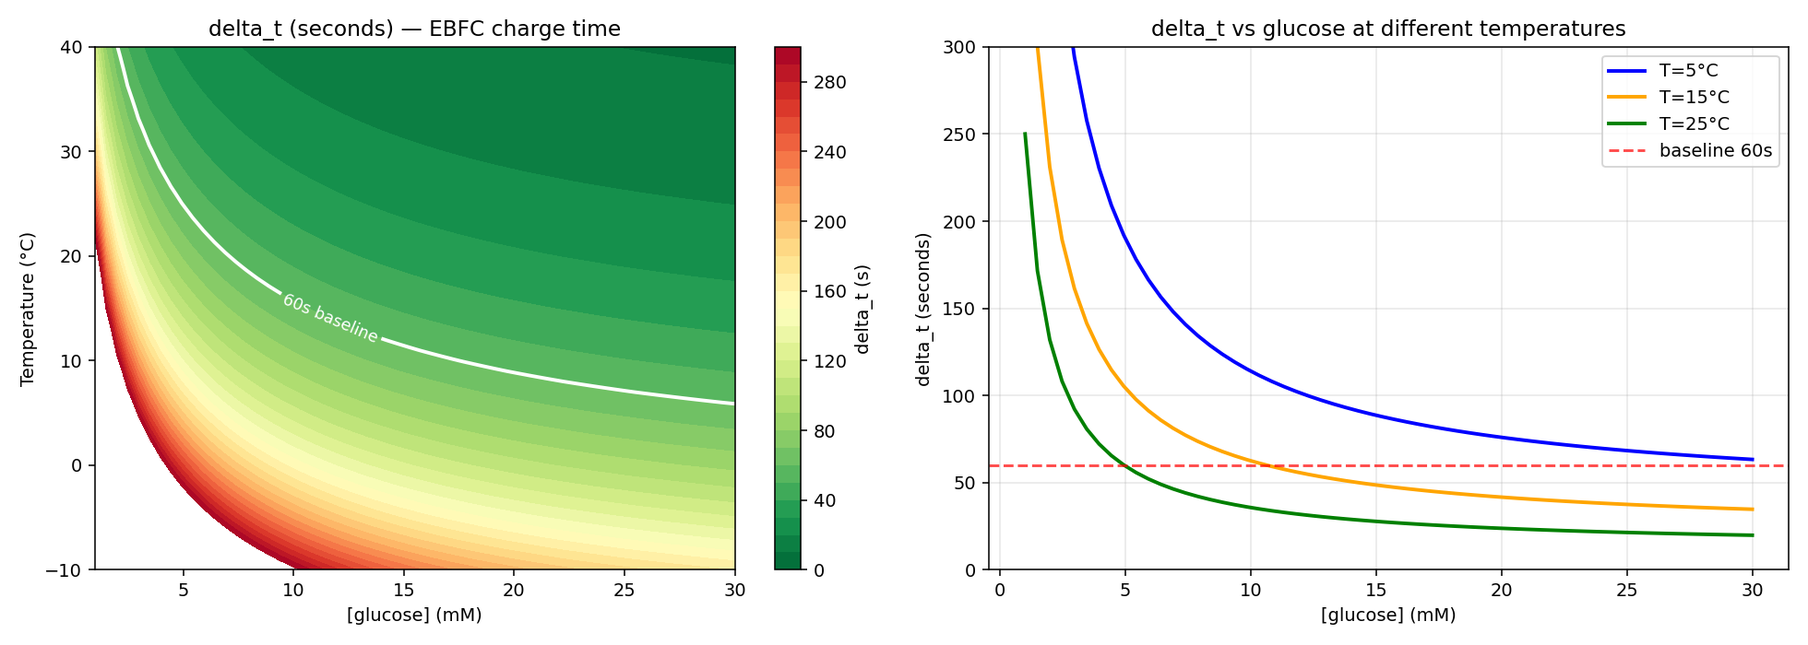
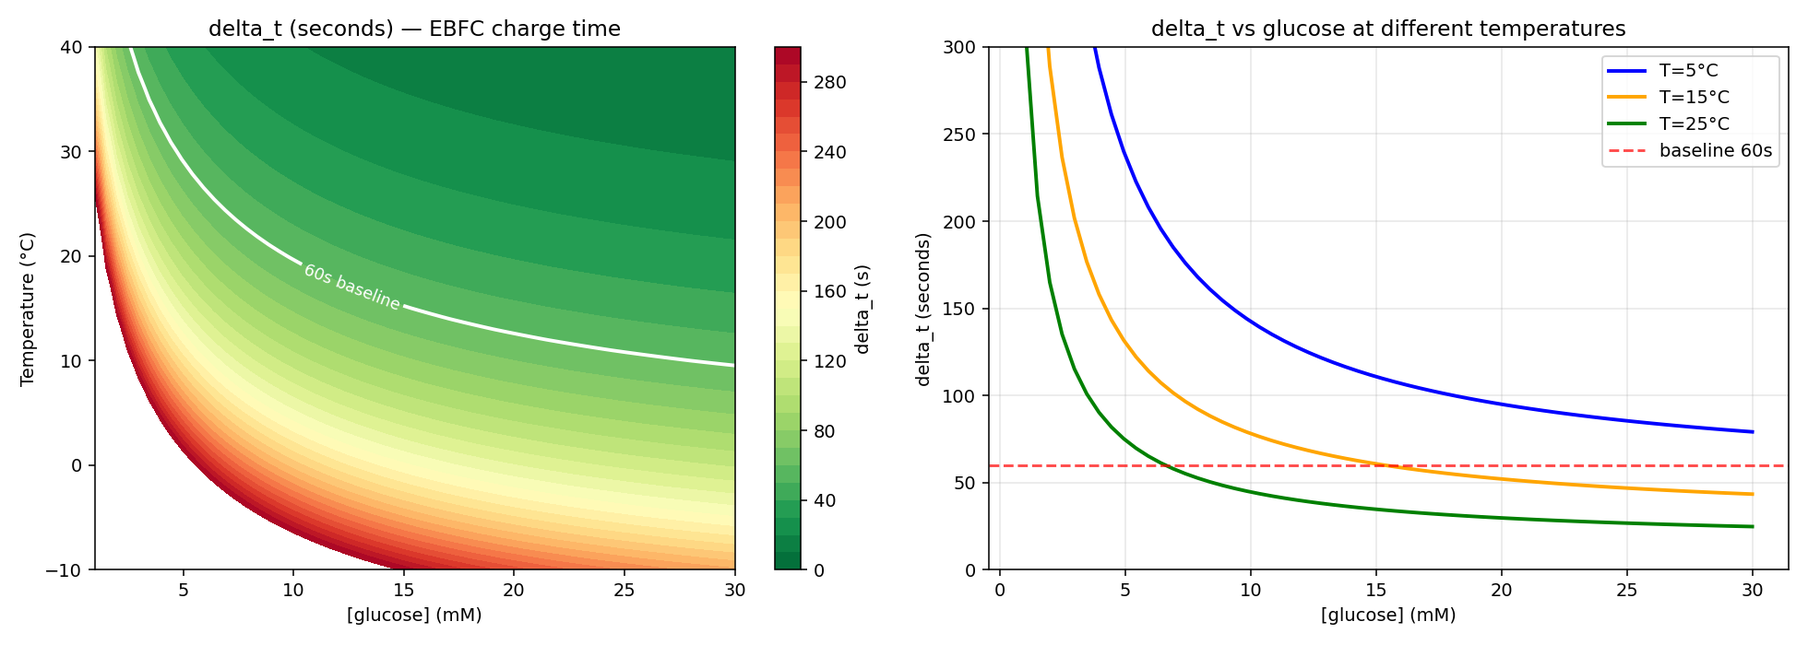
in-silico+docs(HW.47): η_boost BQ25570 0.85→0.68 — One-Home + перерахунок delta_t
`tools/in_silico/lib/constants.py ETA_BQ` тримав неавторизовану плоску 0.85,
поки `docs/02_03 §9.1` мала своя таблиця для тієї самої 15µW-точки давала 0.68.

Прочитано SLUSBH2G (TI BQ25570 datasheet) напряму: аналітичної формули
ККД(P_IN) немає, лише графіки Fig.4-7 «Charger Efficiency vs Input Current».
При I_IN≈15-46µA крива стоїть на крутому підйомі (20-30%@10µA → плато
85-90% лише від ~1мА) — 0.85 систематично оптимістичний тут на будь-якій
VSTOR-кривій, 0.68 у правдоподібному діапазоні (±10-15 в.п., не точне
значення). constants.py тепер дзеркалить канон-таблицю з коментарем.

Перерахунок пропущено крізь весь ланцюг: 30_kinetics_delta_t.py + 30b →
delta_t_lookup.json/monte_carlo.json регенеровано; SUMMARY.md, 01_03 §3.4,
PIPELINE_STATUS.md синхронізовано (healthy 35.7→44.7с, cold winter
190.0→237.5с, ×1.25 — E.63 якісний висновок про масштаб delta_t незмінний).

Побічна знахідка: PIN(CS)=15µW у датшиті — це мінімальний cold-start поріг
самої мікросхеми (TYP, Electrical Characteristics), не «typical Gen 2.0
EBFC» — §9.2 не мала для цього числа незалежної формули. Схоже, §9.1-таблиці
анкер позичений в IC-специфікації, а не виміряний для дерева; той самий
клас, що HW.46 (VIN(CS) 330→600мВ). Присуд лишається HW.46, тут лише
зафіксовано канон-прозою.

00_07: HW.47 закрито → §🗄 Архів; ripple-нотатка, що ARCH.8/E.63 цитують
старі 36-190с/34-178× (нові 45-238с/27-143×) залишена нередагованою —
поза мандатом цього пункту.
[…]

diff --git a/tools/in_silico/lib/constants.py b/tools/in_silico/lib/constants.py
@@ -62,7 +62,15 @@ KM_GLUCOSE = 20.0            # mM — estimated for GcGDH
 EA_ENZYME = 40_000.0         # J/mol — Arrhenius activation energy (typical FAD enzyme)
 V_OP = 0.5                   # V — EBFC operating voltage under load
 A_ELECTRODE = 2.0            # cm² — effective electroactive area
-ETA_BQ = 0.85                # BQ25570 boost efficiency (TI SLUSBH2G)
+ETA_BQ = 0.68                 # BQ25570 boost efficiency at P_EBFC≈15 µW — mirror of
+# docs/02_03 §9.1 table (source of truth; edit there, not here). [HW.47, 2026-09-09]
+# 0.85 was an unvalidated orphan value with no table/citation; SLUSBH2G Figures 6-7
+# (Charger Efficiency vs Input Current, VIN=0.5V/0.2V) put I_IN≈15-46µA solidly on the
+# steep low-current rise of the curve — eyeball range ~45-80% across the plotted VSTOR
+# curves, i.e. clearly below 0.85 and roughly consistent with 0.68. Precision residual:
+# the 15µW/325mV "typical" anchor itself may be mis-copied from BQ25570's OWN cold-start
+# threshold spec (P_IN(CS) TYP=15µW, old VIN(CS)=330mV) rather than derived from real
+# EBFC output — see HW.47/HW.46 in the tracker before treating 0.68 as final-precision.
 E_CYCLE = 5e-3               # J — energy per MCU wake cycle
 BASELINE_DELTA_T_S = 60      # s — firmware baseline (bio_contract.rb)
 

diff --git a/docs/00_07_Action_Plan_Tracker.md b/docs/00_07_Action_Plan_Tracker.md
@@ -645,13 +645,6 @@
 - [ ] ⚖ **Проти якого `VIN(CS)` приймати Stage-2 монету — typ 600 мВ чи max 700 мВ.** 🔑 Машинну половину відколото й закрито 2026-09-09: вимір показав, що діра була ГІРША за «хибний поріг» — у Stage-2 gates ([`01_03 §3.5`](01_03_EBFC_Enzymatic_Bio_Fuel_Cell)) критерію на `V_OC` не існувало ВЗАГАЛІ, тобто keystone міряв усе, крім величини, що вирішує запуск вузла. Обидва гейти (`V_OC` і `R_int`) вписані, число позначене дзеркалом, формула стелі реферить [`02_03 §1.5`](02_03_BQ25570_MPPT_Nano_Power). Лишається сам присуд: typ дешевше, max гарантує — і ціна різниці не абстрактна, бо між ними лежить уся нижня половина очікуваного OCV
 - ⛔ **Гейт на відкинуту вокабуляру ВИМІРЯНО Й ВІДМОВЛЕНО 2026-09-09 — не відбудовувати.** Вичерпний перепис колокації «cold-start ∥ VIN(CS)» × «330» по `docs/` дав **12 кандидатів, із них справжній ОДИН** (точність 8 %): решта одинадцять — це власна виправна проза, що ЦИТУЄ старе число як спростоване, плюс тіло цього пункту й опис самого гейта. Тобто гейт червонів би переважно на документації про себе ж (guard-craft #10a), а поріг 8 % нижчий за той, на якому відмовили двом попереднім. 🔑 **Позитивна половина того ж виміру:** саме він знайшов останній ЖИВИЙ інстанс — [`03_05 §3.5`](03_05_Hardware_Symmetric_Crypto_and_Security), якого свіп по шести домах не дістав. **Ціна відмови вголос:** повернення «330 мВ» ловить лише читач, і єдиний носій — 🔴-блоки в [`02_03 §1.1`](02_03_BQ25570_MPPT_Nano_Power)/`§1.3`, які кажуть «не відновлювати» прямим текстом.
 
-#### HW.47 — η_boost BQ25570: in-silico тримає 0.85, канон-таблиця на ТІЙ САМІЙ робочій точці — 0.68
-- **P1** · 🤖 · ⚪ · → [`02_03 §9.1`](02_03_BQ25570_MPPT_Nano_Power)
-- **Стан:** 🔴 **Знайдено побічно 2026-09-09 (HW.46-адверсар), не мій мандат сьогодні — фіксую, не лагоджу.** `02_03 §9.1/§9.2` рахує `η_boost` **per-робочу-точку** з явною таблицею (P_EBFC=15 µW @ 325 мВ → η=0.68 · 30 µW → 0.75 · 100 µW → 0.82) і саме на **15 µW** — робочій точці, яку той самий документ (§9.2) зве «typical Gen 2.0 EBFC» — рахує `E_gen_raw × 0.68`. `tools/in_silico/lib/constants.py` (`ETA_BQ = 0.85`) і `tools/in_silico/scripts/30_kinetics_delta_t.py` (`η_bq = 0.85`, `p_net = p_ebfc * ETA_BQ`) застосовують **плоскі 0.85** до ТІЄЇ Ж 15-мкВт точки — розбіжність ×1.25, оптимістична. Ланцюг не декоративний: `30_kinetics_delta_t.py` рахує `delta_t`, а `delta_t` після [E.63] визначає `growth_points` НАПРЯМУ — тобто 25%-оптимістичний ККД тут проникає на грошовий шлях. ⛔ **Чого цей пункт НЕ стверджує:** яке з двох чисел правильне. `§9.1`-таблиця сама позначена «точні значення» без датшит-цитати боost-ККД у функції потужності (BQ25570 datasheet дає ефективність-криві, не аналітичну формулу per-µW) — можливо, 0.68 є консервативнішою обгорткою, а 0.85 datasheet-пікове значення на іншому струмі. Обидві сторони варті окремого читання Efficiency-графіків датшита (Figures 1-7, SLUSBH2G) перед вибором.
-- [ ] 🤖 Прочитати Efficiency Figures 1-7 SLUSBH2G (boost efficiency vs I_IN, per P_IN-крива) і встановити, яке з двох чисел (0.68 vs 0.85) правильне для 15 мкВт/325 мВ; якщо жодне — порахувати з кривої напряму
-- [ ] 🤖 Звести `tools/in_silico/lib/constants.py` `ETA_BQ` + `docs/02_03 §9.1` таблицю до ОДНОГО числа на робочу точку (One-Home; чи `ETA_BQ` стає функцією `f(P_in)`, чи `§9.1`-таблиця стає джерелом для `constants.py`, вирішує читання Figures)
-- [ ] 🤖 Побічна знахідка того ж проходу — назвати вголос, не мовчати: `PIN(CS)` = 15 мкВт (мінімум cold-start, [`HW.46`](00_07_Action_Plan_Tracker)) дорівнює `P_gen` = 15 мкВт (typical Gen 2.0 EBFC, §9.2) — нульовий запас потужності на самій робочій точці, яку канон зве типовою. Перевірити, чи це збіг найменувань (µW округлено) чи справжня межа
-
 #### HW.32 — BME280 environmental sensing + VPD confounder [ADR `02_01 §3.4`]
 - **P1** · 👤 · 🟢 · → `02_01 §3.4`, `02_06 §1.3`
 - **Стан:** BME280 (t°/RH/тиск, I2C за TPS22860) приземлено host-side — docs + `03_01` SENSE + TelemetryLog cols (structure.sql) + firmware pure-модуль `firmware/common/bme280.h` (datasheet Bosch §8.2 компенсація `Bme280_Compensate_T/P/H` + VPD FAO-56 Tetens `Bme280_Vpd_Index`, host-golden `test_bme280.c`) + VPD-gate/sap-term у backend (inert, ENV-calibration-gated). Wire: VPD = CCM wire-rev2 **byte 19 `vpd_index`** ([`03_05 §2.1`](03_05_Hardware_Symmetric_Crypto_and_Security)). DCI-guard: VPD НЕ в Lorenz-Z. Канон `02_01 §3.4` (формула/шкала/bench-чеклист) · slashing-роль `05_05 §6/§7` · клімат-оракул `00_04` · калібрування ваг `05_05 §8`.
@@ -1747,6 +1740,7 @@
 
 | ID | Пункт | Канон |
 |----|-------|-------|
+| HW.47 | **η_boost BQ25570: `0.85` (in-silico) знято, `0.68` (канон-таблиця) лишається робочим числом — ЗАКРИТО ✅ 2026-09-09, One-Home + перерахунок.** SLUSBH2G не дає аналітичної формули ККД(P_IN), лише графіки Fig.4-7 «Charger Efficiency vs Input Current»; при I_IN≈15-46 µA (наша робоча точка) крива стоїть на крутому підйомі (20-30%@10µA → плато 85-90% лише від ~1мА) — `0.85` систематично оптимістичний тут на будь-якій VSTOR-кривій, `0.68` у правдоподібному, не пришпиленому до пікселя діапазоні (±10-15 в.п.; точніше — лише пряме читання пікселів або стенд). `tools/in_silico/lib/constants.py ETA_BQ` `0.85→0.68` з коментарем-дзеркалом на `02_03 §9.1`; перерахунок пропущено крізь `30_kinetics_delta_t.py`+`30b` (healthy 35.7→44.7 с, cold winter 190.0→237.5 с, ×1.25 — E.63 якісний висновок незмінний), `SUMMARY.md`/`01_03 §3.4`/`PIPELINE_STATUS.md` синхронізовано. 🔴 **Побічна знахідка, серйозніша за саму розбіжність: `PIN(CS)`=15µW (SLUSBH2G Electrical Characteristics, TYP) — це мінімальний cold-start поріг САМОЇ МІКРОСХЕМИ (окрема схема, живе ДО VSTOR≥`VSTOR_CHGEN`; Fig.4-7 вимагають VSTOR вже ≥1.8В), не «typical Gen 2.0 EBFC» — `§9.2` не має незалежної формули для цього числа, і `V_OP=325мВ` підозріло близький до старого `VIN(CS)`=330мВ. Обидва анкери §9.1-таблиці, схоже, позичені в IC-специфікації, а не виміряні для дерева — присуд і глибший фікс лишаються [`HW.46`](00_07_Action_Plan_Tracker) (той самий root, P0 ⚖, відкритий). ⚠ Побічно знайдено й НЕ займано: `constants.py V_OP=0.5В` ⊥ `02_03 §9.1 V_OP=325мВ` — той самий параметр, дві нескірені моделі. ⚠ **Ripple поза мандатом цього пункту, НЕ редаговано:** [`ARCH.8`](00_07_Action_Plan_Tracker)/[`E.63`](00_07_Action_Plan_Tracker) цитують старі `36-190 с`/`34-178×` — нові числа **45-238 с / 27-143×** (якісний висновок про невідомий масштаб незмінний) | [`02_03 §9.1`](02_03_BQ25570_MPPT_Nano_Power) · [`01_03 §3.4`](01_03_EBFC_Enzymatic_Bio_Fuel_Cell) |
 | DOC-T.106 | **Вікно скіл-цитати ковтало СУСІДНЮ цитату того ж рядка — ЗАКРИТО ✅ 2026-09-08, і знайшов це не ревʼю, а прогін гейта посеред чужої роботи.** `skill_item_check` у `memory_gate.sh` бере 40-символьне вікно ПІСЛЯ імені скіла й судить кожен `#N` у ньому діапазоном ЦЬОГО скіла. Рядок, що цитує один скіл, а тоді через middot другий, віддавав ОБИДВА номери першому імені — і другий закономірно виходив поза діапазон. Обидві живі інстанції сиділи в `CLAUDE.md`, тобто у файлі, що вантажиться в КОЖЕН промпт: постійне червоне саме там найдорожче, бо вчить гортати єдиний гучний стенс. 🔑 Лік — різати вікно на межі наступної скіл-конструкції: перша цитата після імені є єдиною, яку це імʼя володіє. **Батарея 82 → 84 двома дзеркальними кейсами** (мовчить, коли другий скіл цитує ВЛАСНИЙ живий пункт ⊥ і далі червоніє на його ж поза-діапазонному), і мутація зняття фікса валить рівно перший, лишаючи другий зеленим — тобто пін розводить хибний позитив від втрати детекції. ⚠ Для кейсу довелось завести ДРУГИЙ фікстурний скіл: наявний компаньйон є АЛІАСОМ першого, тож дві назви з нього резолвляться в один набір і підміна між ними невидима за побудовою. ⊕ Гейт спіймав автора цього ж фікса: дослівна цитата пари в коментарі сама стала живим фантомним рефом — форму описують словами. | `.claude/hooks/memory_gate.sh` (дім механіки й підстави) · скіл `memory-maintenance` |
 | DOC-T.107 | **Пункти, що вижили себе — ЗАКРИТО ✅ 2026-09-08, і рамку виправив СТАНДАРТ, а не вимір.** Розвідка заселила пункт сімома ногами, з яких **чотири пропонували архівувати `⚫`-пункти** — дію, що її інтро `§Розмітка` дозволяє прямим текстом («лишається НА МІСЦІ як closed-canon нотатка»); відповідь три доби стояла в прозі сусіда. ⛔ **ВИМІРЯНО Й ВІДМОВЛЕНО — не відбудовувати, підстава при кожному:** архівувати [`ARCH.17`](00_07_Action_Plan_Tracker)/[`E.50`](00_07_Action_Plan_Tracker)/[`ARCH.23`](00_07_Action_Plan_Tracker)/[`ARCH.6`](00_07_Action_Plan_Tracker) (усі `⚫`; `E.50`/`ARCH.23` ще й `важіль`-половина кластерного маркера, зняття зламало б симетрію, яку стереже гейт) · закривати чергу [`E.52`](00_07_Action_Plan_Tracker) (тіло тримає ті ноги власним ратифікованим `⛔`) · зливати Klima-ногу [`ARCH.95`](00_07_Action_Plan_Tracker) з [`INF.22`](00_07_Action_Plan_Tracker) (пускач спільний, робота різна, доми різні — бракувало СТРУНИ, і вона тепер стоїть обабіч). 🔴 **Справжній улов дали ШІСТЬ класів, і ЖОДНОГО не було в переліку розвідки:** **(1)** дзеркала переживають предмет · **(2)** ратифікований фікс не свіпається на сусіда сам (парує лише ФОРМА) · **(3)** найдорожчий носій — **людино-виконувана поверхня** (BOM-рядок замовляв стерилізацію, заборонену законами фізики; крок стенда незворотно палив плату, без якої наступний крок недосяжний; два рядки йшли ВЕНДОРУ з зобовʼязаннями, яких ми не маємо) · **(4)** розколотий пункт лишається сиротою, доки хтось не роздасть його АДРЕСУ (виміряно на `HW.40`: два місяці, нуль inbound) · **(5)** гейт, чия документація називає його єдину ціль, і який ПОРОЖНІЙ (`.aiignore`) · **(6)** транслітерація власного імені вимикає ВЕСЬ греп («Минаєв» ⊥ «Мінаєв»; омогліфний гейт мовчить правильно). 🔑 Спільна мораль: питання не «предмет мертвий → архів», а **«предмет знято → хто ще стверджує про нього ТЕПЕРІШНІМ часом»**. ⊕ `research.md` (невидобута Gemini-сесія, запушена випадково) розібрано на 85 тверджень (A=47 · B=5 · C=8) і **видалено ⚖ founder** — вісім кандидатів рознесено поіменно: [`HW.42`](00_07_Action_Plan_Tracker)/[`HW.43`](00_07_Action_Plan_Tracker)/[`HW.44`](00_07_Action_Plan_Tracker) власними пунктами, три рядками в [`HW.21`](00_07_Action_Plan_Tracker)/[`HW.13`](00_07_Action_Plan_Tracker)/[`ARCH.1`](00_07_Action_Plan_Tracker), два відхилено з поіменною підставою. 🔑 **Найцінніше виявилось не у файлі:** читання його проти канону оголило суперечність у НАС — [`02_03 §7`](02_03_BQ25570_MPPT_Nano_Power) ⊥ [`03_01 §13.3`](03_01_Firmware_Lifecycle_and_DMA) про виживання стану при brownout, тобто на грошовому шляху. | [`00_05 §4`](00_05_AI_Native_Operating_Model) (осі свіпу; підвид транслітерації) · [`00_06 §4`](00_06_SSOT_Documentation_Standard) · legend `00_07` (розкол ⊥ злиття) · скіл `ssot-maintenance` §Guard-craft (#153 підказка гейта · #154 порожній реєстр) · `deep_archival` Фаза 5 (зонд «канон оголошує МЕЖУ пункту») |
 | ARCH.120 | **USDC-виплати підсумовувались намінтованим SCC — ТРЕТЯ вісь грошового рядка, ЗАКРИТО ✅ 2026-09-04.** Обидва писачі `Solana::MintingService` клали `amount: format_usdc(lamports)` під `token_type: :carbon_coin`, чесно оголошуючи `blockchain_network: "solana"` — тобто транспорт називали правдиво, а ВАЛЮТУ ні. `BlockchainTransaction.net_minted_supply` фільтрує по `token_type` · `status` · `direction` і мережі **не читає за побудовою**, тож підтверджена мікровинагорода ставала емісією SCC для ТРЬОХ незворотних гардів — бази слешингу, `total_scc_supply` L1-якоря і `retirable_scc` ESG-погашення — плюс `ChainAuditService`, який рапортував би «all clean» на забрудненому числі. ⚠ **Фантом переважав справжній заробіток того самого пакета на порядок:** винагорода має ненульову БАЗУ, а SCC за той самий аплінк = `growth_points / 10 000`. 🔑 **Лік — власний `token_type: :usdc`, а НЕ фільтр по мережі:** хибним було твердження про валюту, тож фільтр лікував би симптом, стверджував би щось інше («SCC на Solana не рахується») і розсипався б на першому бриджі. ⛔ **Найдорожче тут не фікс, а те, що правило вже було ратифіковане й НЕ свіпнуте:** присуд про Puro-анкер (`maintenance_record.rb`, ⚖ founder 2026-08-20) дослівно каже «втискати туди анкер означало б **або отруїти `net_minted_supply`**, або завести 4-й token_type» — клас назвали, вберегли від нього НОВОГО кандидата й жодного разу не спитали, хто вже лежить усередині ([`00_05 §4`](00_05_AI_Native_Operating_Model) вісь-2: свіпай ФОРМУ, не імʼя). 🔬 **Латентність доведена ланцюгом передумов, не припущена:** єдиний enqueue сидить у гілці `fulfilled` оракул-колбека (PATH 1 unwired), а `prepare_transfer` (реальний підпис + RPC, вимагає незаведеної Solana-четвірки) стоїть ДО `record_event_intent!` — отже забрудненого рядка не існує ніде, і backfill-ноги немає. ⛔ **Модельну валідацію «наш токен ⇒ `evm`» ВИМІРЯНО й ВІДКЛАДЕНО, ціна названа:** периметр = **35** спек-сайтів із чужою мережею, тобто «спершу робота, потім гейт» ([`00_05 §5`](00_05_AI_Native_Operating_Model)); ціна відмови — новий писач може оголосити хибну валюту, і спинить його лише ревʼю. Носії натомість: коментар при самому `enum` (його читає той, хто обирає тип) · [`CLAUDE.md §6`](00_00_SSOT_Index) · скіл `web3-pipeline` гоча 34 · два піни, мутаційно доведені на РІЗНИХ мутаціях (писач ⊥ агрегат). ⚠ `token_ticker_parity_spec` має ДВА shrink-list carve-out'и — символ і НАЗВУ; зовнішній токен оновлює обидва | [`05_01`](05_01_Multichain_Architecture) (картка Solana) · [`05_05 §3`](05_05_Slashing_and_Risk_Policy) (три осі бази) · [`04_01`](04_01_Data_Models_and_Entities) (enum + поіменний перелік незворотних споживачів) |

diff --git a/docs/06_08_Resilience_and_Failover_Policy.md b/docs/06_08_Resilience_and_Failover_Policy.md
@@ -71,7 +71,7 @@
 **Per-Soldier dead-man switch [SILENCE-1, sweeper-нога ✅ 2026-07-19]:** `TreeStalenessSweepWorker` (cron */5 хв, черга alerts) — дзеркало Шару 0 для дерев: без нього backend бачить зникнення лише cluster-wide (`DailyHealthRouter#blackout?`) → вкрадений/мертвий вузол «мінтить», доки сусіди цокочуть. 🔴 **Лапки тут несучі, і 2026-09-04 їх ВИМІРЯЛИ ([`00_07`](00_07_Action_Plan_Tracker) SILENCE-1): sweeper мінт НЕ СПИНЯЄ — він піднімає ПОВІСТКУ.** Мовчазне дерево лишається `active`, тож `TokenomicsEvaluatorWorker.eligible_wallets` його не виключає, а `Wallet#lock_and_mint!` про свіжість сигналу не питає жодною гілкою — `Tree.silent`/`fresh_signal?` не читає ЖОДЕН money-path сайт. Те, що воно фактично не карбує нової монети, тримає зовсім інша властивість: `lock_and_mint!` блокує `(available/threshold).floor × threshold`, тож після кожного мінту залишок **< порогу за побудовою**, а поріг мовчазне дерево більше не набере. ⚠ **І ця властивість зникає, щойно мінт заблоковано з ІНШОЇ причини** — тоді хвіст росте без стелі й при розблокуванні мінтиться ВЕСЬ, включно з періодом тиші; сьогодні такий блокувальник існує (KYC-скіп). Присуд «гейта свіжості не додаємо» разом із названою умовою перегляду — [`05_02 §Trust-origin ladder`](05_02_Proof_of_Growth_Pipeline) (⚠ адресу виправлено 2026-09-04: рядок слав по нього в трекер, тоді як канон уже ніс його повністю — канон не має посилати на трекер за тим, що сам тримає; у [`00_07`](00_07_Action_Plan_Tracker) лишається лише ВІДКРИТА половина SILENCE-1). Дві свідомі відмінності від Queen-половини:
 
 - **Поріг НЕ виводиться з конфіга** (⊥ Queen `config_sleep_interval_s * 1.2`): Soldier спить між energy-sufficient циклами, `delta_t` навмисно варіативний (стрес → повільніший заряд → довша тиша = сам сигнал, [`00_07` E.63](00_07_Action_Plan_Tracker)) → `SystemParameter :tree_silence_threshold_hours`, а дефолт має ОДИН дім у коді — `Tree::SILENCE_THRESHOLD` **[transitional]** до bench-калібрування (значення тут свідомо не дублюємо: воно ще зрушить, і три прозові копії числа розійшлися б; [ARCH.99](00_07_Action_Plan_Tracker) вирівняв воркер, скоуп і в'ю на цю константу). Скоуп `Tree.silent(threshold)` = active + вже виходив в ефір (`last_seen_at` NOT NULL) + мовчить довше порога — dormant/removed/deceased легітимно мовчазні.
-- 🔴 **Порядок величини, що робить ⚖ про поріг розвʼязним — і він про МАСШТАБ, а не про розкид між режимами.** Виправлено 2026-09-04: тут стояло «розкид `delta_t` між живими режимами ×35–190», і це була помилка КАТЕГОРІЇ — `35.7` і `190` у джерелі є **секундами** L4-моделі ([`01_03 §3.4`](01_03_EBFC_Enzymatic_Bio_Fuel_Cell): здорове 35.7 с, стресоване 190 с), а не множниками; справжній розкид між режимами становить ≈**5×**, і сам по собі він порога не блокує. **Блокує інше — невідомий МАСШТАБ:** та сама модель стоїть за лаб-стелею, а енергобюджет ([`02_03 §9.8`](02_03_BQ25570_MPPT_Nano_Power), сценарій C) дає `Δt ≈ 1.77 год`, тобто **6372 с проти 36–190 с — невизначеність шкали в 34–178 разів**. Саме вона робить flat-24h транзієнтним: при хвилинному циклі доба тиші є тисячами пропущених пробуджень, при 1.77 год — десятком, і це різні твердження про світ. Дім оцінки — [`00_07`](00_07_Action_Plan_Tracker) E.63 (bench-калібрування), де пара читається правильно («при ~хвилинному перезаряді cadence-гейт екзистенційний, при 1.77 год оптимізація»). ⚠ Названо явно, щоб наступний прохід не приймав дефолт за рішення — і щоб `×` більше не з'явилось при числах, які є одиницями часу.
+- 🔴 **Порядок величини, що робить ⚖ про поріг розвʼязним — і він про МАСШТАБ, а не про розкид між режимами.** Виправлено 2026-09-04: тут стояло «розкид `delta_t` між живими режимами ×35–190», і це була помилка КАТЕГОРІЇ — числа в джерелі є **секундами** L4-моделі, а не множниками; справжній розкид між режимами становить ≈**5×** і сам по собі він порога не блокує (незмінно перерахунком нижче — обидва краї модель масштабує однаково). **Блокує інше — невідомий МАСШТАБ:** та сама модель стоїть за лаб-стелею, а енергобюджет ([`02_03 §9.8`](02_03_BQ25570_MPPT_Nano_Power), сценарій C) дає `Δt ≈ 1.77 год`, тобто **6372 с проти 45–238 с — невизначеність шкали в 27–143 рази** (перераховано 2026-09-09 після [`HW.47`](00_07_Action_Plan_Tracker): η_BQ boost-ККД 0.85→0.68 — [`01_03 §3.4`](01_03_EBFC_Enzymatic_Bio_Fuel_Cell): здорове 44.7 с, стресоване 237.5 с). Саме вона робить flat-24h транзієнтним: при хвилинному циклі доба тиші є тисячами пропущених пробуджень, при 1.77 год — десятком, і це різні твердження про світ. Дім оцінки — [`00_07`](00_07_Action_Plan_Tracker) E.63 (bench-калібрування), де пара читається правильно («при ~хвилинному перезаряді cadence-гейт екзистенційний, при 1.77 год оптимізація»). ⚠ Названо явно, щоб наступний прохід не приймав дефолт за рішення — і щоб `×` більше не з'явилось при числах, які є одиницями часу.
 - ⛔ **Писача `last_seen_at` рівно ОДИН — телеметрія, і це присуд, а не пропуск** (названо 2026-09-04). `TelemetryUnpackerService` кличе `Tree#mark_seen!`; жоден інший тракт цього не робить, включно з `DeviceEventWorker`, який дерево за DID **уже резолвить** — тобто відсутність виглядає дірою й спокушає її «закрити». Підстава — вісь [ARCH.109](00_07_Action_Plan_Tracker): канал живості пише лише той, хто почув САМЕ ЦЕЙ вузол. Кадр `0x57` цього не доводить (шар 1 — 16B ECB на **кластерному** ключі, шар 2 — Ed25519 самої Королеви, [`03_05 §2.2а`](03_05_Hardware_Symmetric_Crypto_and_Security)), тоді як телеметрія автентифікована **per-device** (session KEYL). Отже device-event свідчить, що ШЛЮЗ щось почув. 🔴 Ціна помилки одностороння й тиха: зайвий `mark_seen!` ховає дерево від `Tree.silent`, робить `fresh_signal?` істинним і гасить dead-man switch — тобто відтворює ARCH.109 машинною рукою замість людської. **Наслідок для heartbeat-ноги нижче: підписаний pulse мусить нести per-device автентифікацію, інакше він не має права цей канал писати** — і це вимога до КОНСТРУКЦІЇ кадру, не до бекенду. ⊕ **Звідси ж виводиться примітив, і Ed25519 відпадає ДВІЧІ незалежно:** (1) `EDSK`-слот у Солдата не існує взагалі — `FactoryFlashing::CommandBuilder` рейзить `ed25519_seed_hex is Gateway-only` для `Tree`; (2) 64-байтний підпис не влазить ані в 16B, ані в 30B кадр, і `firmware/common/device_event.h` уже оголошує per-event device-підпис фізично неможливим, називаючи L1 Queen-attest «правильним рівнем назавжди». Лишається CCM-MIC на наявному per-device session KEYL — тобто конструкція переиспользує вже відвантажене (CCM-примітив, лічильник кадрів із Flash-hiwater, ратчет), і нового криптопримітива не заводимо.
 - ⛔ **Challenge-response як сурогат heartbeat ВІДКИНУТО — не відбудовувати.** Ідея «спитати вузол, чи він живий» валиться на власному тракті: RX гейтований `vcap > VCAP_LISTEN_THRESHOLD`, а broadcast іде без TDMA й без адресації — тож НЕ-відповідь означає {мертвий ∨ енергетично бідний ∨ спав}, тобто рівно той самий конфаунд, який heartbeat мав розвести. Лік лишається один — ПІДПИСАНИЙ daily pulse із боку Soldier'а. ⚠ **Адресу виправлено 2026-09-04: тут стояло «нога [`03_01`], gated bench», і обидві половини були хибні.** У [`03_01`](03_01_Firmware_Lifecycle_and_DMA) по heartbeat **нуль хітів** (єдиний збіг — коментар FW.21 про фільтр `delta_t`), тобто вказівник вів у документ, що теми не несе; а «gated bench» накривало ногу цілком, тоді як host-половина (розкладка кадру · golden-вектор C⟷Ruby · бекенд-верифікація) машинна вже. Дім — цей розділ ⊕ [`00_07`](00_07_Action_Plan_Tracker) SILENCE-1, де живе розкол host/bench і присуд про примітив автентифікації.
 - ⚖ **Форма pulse'у присуджена 2026-09-04 — це НАЯВНИЙ 30B CCM-кадр, а не новий формат.** Підстава — вимір, не смак: `Queen_Rx_Classify` розрізняє кадри **суто за довжиною** (16 → ECB-control, 30 → CCM, решта → тихий дроп), тож мінімальний CCM-pulse (AAD 8 + MIC 8 = 16 Б) колідує, а найближчий вільний розмір 17 Б виграє @ SF9/BW125/CR4:5 лише **61 мс airtime ≈ 8 мДж**, тобто ≈1.6 % добового балансу — проти ціни в нову гілку класифікатора шлюзу, новий опкод, новий вектор і нову гілку декрипту. 🔑 **Семантику при цьому платити не довелось: «я тут, але нічого не міряв» уже виражається на дроті парою `status = 0, GP = 0`** — сентинель `DELTA_T_UNKNOWN_S` ([`00_07`](00_07_Action_Plan_Tracker) ARCH.102), якої у ВИМІРЯНОГО гомеостазу не буває (той починається з `GP_HOMEO_MIN`). Тобто pulse оголошує власний регістр без жодного нового біта, і жодного балу за відмову міряти не нараховується. ⛔ Носії живі, і їх ТРИ, не два (третю вісь дописано 2026-09-06 — доти пін був зелений на кадрі, що доводив протилежне: він міряв живість і бали, а МОВЧАННЯ fraud-каналу не міряв узагалі, [`00_07`](00_07_Action_Plan_Tracker) E.64): `DeviceEventWorker` має пін «тракт дійшов, а `last_seen_at` не торкнутий» (мутаційно доведений), CCM-шлях розпакувальника — пін «pulse штампує живість і не дає балів».

diff --git a/docs/01_03_EBFC_Enzymatic_Bio_Fuel_Cell.md b/docs/01_03_EBFC_Enzymatic_Bio_Fuel_Cell.md
@@ -358,7 +358,7 @@ Run артефакти — `tools/in_silico/cache/runs/<timestamp>/` (gitignored
    - ✅ Genipin rerun (correct C₁₁): baseline 1.20 Å, full matrix 1.22 Å. Temp sweep: -10°C to 25°C all stable.
    - ✅ **Cross-species validation (2026-05-27):** 6/6 xylem sap profiles stable (pH 4.2-6.0): Pinus=1.03, Picea=1.09, Quercus=1.05, Fagus=0.98 Å — all ≪ 3 Å.
 4. ✅ L3 pass (B3LYP + ωB97X + ΔSCF + tunneling, 2026-05-27; Os-якір перераховано на dimethyl-bpy 2026-06-17). Каскад FADH₂→Os **верифіковано downhill +574 мВ / −0.574 eV** (E°(Os) +309 − E°(FAD-GDH −265 мВ SHE)); сирий DFT uphill у кожному методі (adiabatic ΔSCF ωB97X), розрив = метод-ліміт (differential PCM-сольватація у вилці chloro↔bis-Im + substituent, декомпозований ②); стара «B3LYP-corrected −0.07» best-estimate **відкликана** (артефакт +60 мВ FAD → [`SUMMARY.md`](protocols/ebfc/in_silico/SUMMARY.md)). **PCET-валідація (script 32):** thermodynamic proton reference дав E°(FAD/FADH₂) = **-158 mV** vs NHE — в межах **50 mV** від експериментального free-flavin. Це **ізолює** залишковий ~1 eV uphill каскаду суто до обмеження implicit-solvent (диференціальна сольватація PCM), а не до хімії — тобто "PCM solvation limit" є **доведеним фактом**, не відмовкою (cascade PCET reframing, script 33, downhill НЕ дає → теж PCM, не proton coupling). **Tunneling pathway** (script 28, Beratan-Onuchic): FAD→ALA261→THR260→THR283→THR288, β·d=2.05 (PDB resSeq; #3) — tunneling feasible. **L3b cathode DET ✅ COMPLETE** (geom-fixed t_ij + computed λ): cathode DET **borderline** at realistic λ (Cu-Co bottleneck ~turnover, не old ×10⁵) — числа + λ-чутливість → [`SUMMARY.md`](protocols/ebfc/in_silico/SUMMARY.md) §Cathode. Деталі → [`L3_quantum_chemistry.md`](protocols/ebfc/in_silico/L3_quantum_chemistry.md)
-5. 🟡 L4 (2026-05-25, REVISED [E.63] 2026-06-08): Michaelis-Menten + Arrhenius + BQ25570 boost → recharge-kinetics model sound, але **за лаб-стеля** (E_CYCLE=5мДж / j_max=494; healthy 35.7 s, stressed 190 s). **[E.63]:** β-coupling реверсовано (delta_t→β було економічно нульове/інвертоване) — `delta_t` тепер → `growth_points` НАПРЯМУ ([`03_04 §4.3`](03_04_mruby_Lorenz_Attractor)); FAST/SLOW field-scale calibration-pending (bench recharge-крива). Скрипт: `30_kinetics_delta_t.py`. Diffusion NOT rate-limiting (j_diff >> j_kinetic).
+5. 🟡 L4 (2026-05-25, REVISED [E.63] 2026-06-08): Michaelis-Menten + Arrhenius + BQ25570 boost → recharge-kinetics model sound, але **за лаб-стеля** (E_CYCLE=5мДж / j_max=494; healthy 44.7 s, stressed 237.5 s — η_BQ 0.68 post-[HW.47]). **[E.63]:** β-coupling реверсовано (delta_t→β було економічно нульове/інвертоване) — `delta_t` тепер → `growth_points` НАПРЯМУ ([`03_04 §4.3`](03_04_mruby_Lorenz_Attractor)); FAST/SLOW field-scale calibration-pending (bench recharge-крива). Скрипт: `30_kinetics_delta_t.py`. Diffusion NOT rate-limiting (j_diff >> j_kinetic).
 
 **Вихід з TRL 3 (Zero-Lab in-silico):** ✅ **завершено** (2026-05-25). Усі 4 рівні дали позитивний результат — Zero-Lab computational proof завершено: EBFC Gen 2.0 доведено in silico на всіх рівнях (структура → стабільність → редокс-потенціал → кінетика). ⚠ Це **TRL 3** (за NASA in-silico ≠ TRL 4); фізичний **TRL 4** = Ti-monet у CRO (Stage 2). Наступний крок — замовлення Ti-monet.
 

diff --git a/docs/02_03_BQ25570_MPPT_Nano_Power.md b/docs/02_03_BQ25570_MPPT_Nano_Power.md
@@ -550,6 +550,10 @@ EBFC (>500mV) → BQ25570 Boost → VSTOR ≥ 3.4V → VBAT_OK HIGH
 | P_EBFC=30 µW @ V_OP=325 мВ (2× площа) | ~92 µA | ~0.75 |
 | P_EBFC=100 µW (winter peak) | ~300 µA | ~0.82 |
 
+🔴 **Заголовок «точні значення» — оптимістичний; перевірено 2026-09-09 ([`HW.47`](00_07_Action_Plan_Tracker)).** Датшит SLUSBH2G НЕ дає аналітичної формули ККД(P_IN) — лише графіки «Charger Efficiency vs Input Current» (Fig.4-7, по фіксованому VIN=0.2/0.5/1/2 В, лог-вісь струму). Рядок 1 (15 µW/46 µA) прочитано з Fig.6 (VIN=0.5В) + Fig.7 (VIN=0.2В) — це саме та ділянка кривої, де ККД **круто росте** (від ~20-30% на 10 µA до плато 85-90% лише від ~1 мА), тож зчитане з графіка вічком значення несе реальну похибку (порядку ±10-15 в.п., не ±1). **`0.68` лишається робочим числом** (замінило неавторизовану плоску `0.85` в `tools/in_silico/lib/constants.py ETA_BQ` — One-Home тепер тут, `constants.py` дзеркалить із коментарем), але не варте довіри як «точне значення» без прямого читання пікселів графіка чи стендового виміру.
+🔴 **Друга знахідка того ж проходу, серйозніша: сама робоча точка підозріла.** `P_IN(CS)` (Electrical Characteristics, SLUSBH2G, TYP) = **рівно 15 µW** — і це не «типова генерація EBFC», а **мінімальний cold-start поріг** самої мікросхеми (окрема схема, живе ДО того, як VSTOR сягне `VSTOR_CHGEN`; графіки Fig.4-7 вимагають VSTOR УЖЕ ≥1.8В, тобто описують ІНШИЙ режим). `§9.2` називає `P_gen=15 µW` «typical Gen 2.0 EBFC, P_sapwood @ 15°C summer» без окремої формули чи літ-цитати — тобто джерело цього числа в самому документі не простежується, а цифра **збігається день-у-день** із чужим порогом. [`HW.46`](00_07_Action_Plan_Tracker) вже відкрив сусідню помилку тієї самої родини (старий `VIN(CS)`=330мВ, підозріло близький до `V_OP=325мВ` тут). **Цей пункт лише фіксує находку — чи є 15µW/325мВ реальним фізичним числом дерева, а не переписаним порогом мікросхеми, лишається відкритим питанням HW.46, не вирішеним тут.**
+⚠ **Третя, не виправлена тут: `V_OP` тут = 325 мВ, а `tools/in_silico/lib/constants.py V_OP` (той самий фізичний параметр, окрема модель `delta_t`) = 0.5 В.** Розбіжність не займана в HW.47 (інший предмет — не `η_boost`); лишається відкритою.
+
 **Buck path (VSTOR=4.5V avg → VOUT=3.3V):**
 
 | Режим | I_OUT | η_buck |

diff --git a/docs/protocols/ebfc/in_silico/PIPELINE_STATUS.md b/docs/protocols/ebfc/in_silico/PIPELINE_STATUS.md
@@ -44,7 +44,7 @@
 | 28 | `electron_tunneling_pathway` | Beratan-Onuchic FAD→THR288, **β·d=2.05** (feasible) | `dft/tunneling_pathway.json` |
 | 28b | `tunneling_ensemble` | **CHEM.16** Beratan-Onuchic over MD ensemble → β·d **2.02±0.13** (gating 1.03×, thermally robust; image_molecules PBC) | `dft/tunneling_ensemble.json` |
 | 29c | `outer_sphere_lambda` | anode outer-sphere λ_o (Marcus two-sphere, analytical) → total anode λ 0.76–0.86 eV phys-end (confirms lit 0.7–0.8); radius/ε-DOMINATED → INDICATIVE | `dft/outer_sphere_lambda.json` |
-| 30 | `kinetics_delta_t` | delta_t = 36s healthy / 190s stressed | `kinetics/delta_t_lookup.json` |
+| 30 | `kinetics_delta_t` | delta_t = 45s healthy / 238s stressed (η_BQ 0.68 post-[HW.47]) | `kinetics/delta_t_lookup.json` |
 | 30b | `kinetics_monte_carlo` | 90% CI: 14–120s | `kinetics/monte_carlo.json` |
 | 31 | `eis_impedance_model` | Rct=130Ω, Rs=100Ω | `kinetics/eis_model.json` |
 | 31b | `cathode_det_rct` | ③ cathode DET R_ct band ~0.002–230 Ω (borderline k_DET × unknown Γ, ×10⁵) → kinetic competition, not a fixed Rct; INDICATIVE | `kinetics/cathode_det_rct.json` |
@@ -100,7 +100,7 @@ DFT (CPU, done):
   24 (hopping ΔSCF) ───┘── L3b verdict (geom-fixed t_ij; k_DET borderline, λ-sensitive — scripts 25/35)
 
 Kinetics (CPU, done):
-  30 (delta_t) ──→ 36s healthy / 190s stressed (E.63-revised; field-derated higher)
+  30 (delta_t) ──→ 45s healthy / 238s stressed (η_BQ 0.68 post-HW.47; E.63-revised; field-derated higher)
   30b (Monte Carlo) ──→ 90% CI
   31 (EIS) ──→ Nyquist predictions
 

diff --git a/docs/protocols/ebfc/in_silico/SUMMARY.md b/docs/protocols/ebfc/in_silico/SUMMARY.md
@@ -314,18 +314,18 @@ The geometry fix shrank Cu-Co t_ij **25×** → **Cu-Co is the bottleneck**, not
 | Ea | 40 kJ/mol | Typical FAD enzyme |
 | V_op | 0.5 V | EBFC under load |
 | A_electrode | 2 cm² | Conservative gyroid area |
-| η_BQ | 0.85 | BQ25570 datasheet |
+| η_BQ | 0.68 | BQ25570 datasheet (SLUSBH2G Fig.6-7, low-I_IN; [HW.47]) |
 | E_cycle | 5 mJ | STM32 sense+LoRa TX |
 
 ### delta_t Predictions
 
 | Scenario | [glucose] | T(°C) | delta_t (s) | vs 60s baseline |
 |----------|-----------|-------|-------------|-----------------|
-| Healthy summer | 10 mM | 25°C | **35.7** | < 60s → GP↑ [E.63] |
-| Active growth | 20 mM | 30°C | **18.3** | < 60s → GP↑ [E.63] |
-| Moderate spring | 15 mM | 20°C | **36.6** | < 60s → GP↑ [E.63] |
-| Cold winter | 5 mM | 5°C | **190.0** | > 60s → GP↓ [E.63] |
-| Severe stress | 3 mM | 0°C | **399.8** | > 60s → GP↓ [E.63] |
+| Healthy summer | 10 mM | 25°C | **44.7** | < 60s → GP↑ [E.63] |
+| Active growth | 20 mM | 30°C | **22.8** | < 60s → GP↑ [E.63] |
+| Moderate spring | 15 mM | 20°C | **45.7** | < 60s → GP↑ [E.63] |
+| Cold winter | 5 mM | 5°C | **237.5** | > 60s → GP↓ [E.63] |
+| Severe stress | 3 mM | 0°C | **499.7** | > 60s → GP↓ [E.63] |
 
 **Conclusion:** BASELINE_DELTA_T_S = 60s is physically justified. EBFC discriminates healthy vs stressed trees. Diffusion NOT rate-limiting (j_kinetic ≪ j_diffusion).
 
